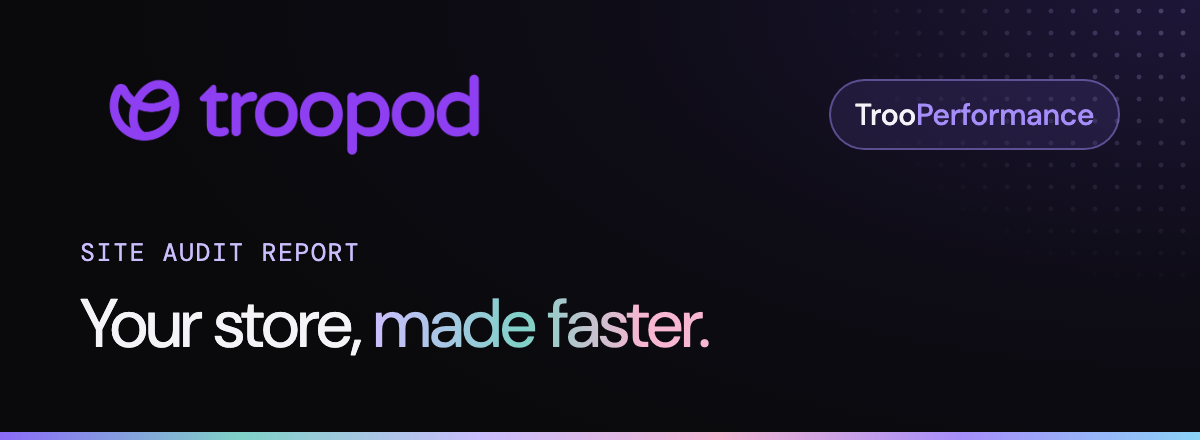
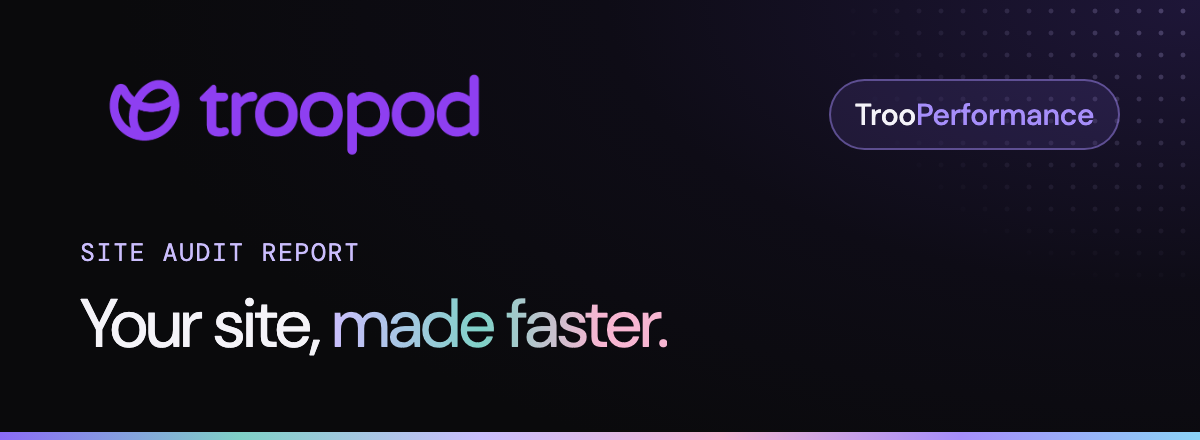
Report email: short CTA-led opening, competitors in every email (auto-picked + phone-tested at send when the visitor skipped it), 'site' not 'store'

Changed region(s): [[0.185, 0.6795, 0.5858, 0.7977]]

diff --git a/assets/js/report-doc.js b/assets/js/report-doc.js
@@ -32,6 +32,18 @@
     }).join("");
   }
 
+  // email opening: who they are, what they checked, what's in it for them, one button
+  function intro(d, site, sc, up) {
+    var hi = d.name ? "Hi " + esc(d.name) + "," : "Hi there,";
+    var l1 = hi + " you just checked <b style=\"color:" + C.text + ";font-weight:500\">" + site + "</b> on TrooPerformance. Here’s your full report.";
+    var l2 = sc.perf != null && up && up.target > sc.perf
+      ? "Your site scores <b style=\"color:" + band(sc.perf) + ";font-weight:500\">" + sc.perf + "/100</b> on a phone. Getting it to <b style=\"color:" + C.lilac + ";font-weight:500\">" + up.target + "</b> could mean about <b style=\"color:" + C.lilac + ";font-weight:500\">+" + up.conv + "% more conversions</b> from the same traffic."
+      : sc.perf != null ? "Your site scores <b style=\"color:" + band(sc.perf) + ";font-weight:500\">" + sc.perf + "/100</b> on a phone. The fixes below keep it ahead of your competitors." : "Below are the fixes that matter most, ranked by what they cost you.";
+    var l3 = "Want it done for you? Book a quick call and see exactly how.";
+    return '<div style="margin-top:14px;font-family:' + F + ';font-size:15.5px;line-height:24px;color:' + C.text2 + '">' + l1 + "<br>" + l2 + "<br>" + l3 + "</div>" +
+      '<table role="presentation" cellpadding="0" cellspacing="0" style="margin-top:16px"><tr><td style="border-radius:10px;background:' + C.purple + '"><a href="' + esc(d.demoUrl || "https://calendly.com/nj-troopod/troopod-demo") + '" style="display:inline-block;padding:12px 20px;font-family:' + F + ';font-size:15px;font-weight:500;color:#FFFFFF;text-decoration:none">Book a demo &rarr;</a></td></tr></table>';
+  }
+
   function render(d, opt) {
     opt = opt || {};
     var base = opt.assetBase || "https://purrieie.github.io/trooperformance/", print = opt.mode === "print";
@@ -41,7 +53,7 @@
     // cover
     rows += '<tr><td style="padding:0"><img src="' + base + 'assets/email/holo-header.png" width="600" height="220" alt="TrooPerformance site audit by Troopod" style="display:block;width:100%;max-width:600px;height:auto;border:0"></td></tr>';
     rows += '<tr><td style="padding:30px 32px 6px"><div style="font-family:' + M + ';font-size:12px;color:' + C.muted + '">Report · ' + esc(d.date || "") + (d.platform ? " · " + esc(d.platform) : "") + '</div><div style="margin-top:10px;font-family:' + F + ';font-size:30px;line-height:36px;letter-spacing:-.03em;color:' + C.text + '">Your performance report for <span style="color:#A68EFA">' + site + "</span></div>" +
-      (d.name && !print ? '<div style="margin-top:14px;font-family:' + F + ';font-size:15.5px;line-height:24px;color:' + C.text2 + '">Hi ' + esc(d.name) + ", here’s everything holding " + site + " back, with the fixes ranked by what they cost you.</div>" : '<div style="margin-top:14px;font-family:' + F + ';font-size:15.5px;line-height:24px;color:' + C.text2 + '">Everything holding ' + site + " back, with the fixes ranked by what they cost you.</div>") + "</td></tr>";
+      (!print ? intro(d, site, sc, up) : '<div style="margin-top:14px;font-family:' + F + ';font-size:15.5px;line-height:24px;color:' + C.text2 + '">Everything holding ' + site + " back, with the fixes ranked by what they cost you.</div>") + "</td></tr>";
     rows += '<tr><td style="padding:18px 18px 4px"><table role="presentation" width="100%" cellpadding="0" cellspacing="0"><tr>' +
       scoreTile(sc.perf, "Performance", sc.desk != null ? "desktop " + sc.desk : "phone") + scoreTile(sc.search, "Search", sc.searchN ? sc.searchN + " checks" : "") + scoreTile(sc.ai, "AI answers", sc.aiN ? sc.aiN + " checks" : "") +
       "</tr></table></td></tr>";
@@ -89,7 +101,7 @@
     // search + AI
     if (d.search && d.search.length) {
       var sFail = d.search.filter(function (c) { return c.status !== "pass"; }), sPass = d.search.length - sFail.length;
-      rows += '<tr><td style="' + pb + 'padding:0"></td></tr>' + rule(base) + h2("Search · score " + (sc.search == null ? "–" : sc.search) + "/100", "How Google", "sees your store");
+      rows += '<tr><td style="' + pb + 'padding:0"></td></tr>' + rule(base) + h2("Search · score " + (sc.search == null ? "–" : sc.search) + "/100", "How Google", "sees your site");
       rows += card('<table role="presentation" width="100%" cellpadding="0" cellspacing="0">' + checkRows(sFail) + "</table>" + '<div style="margin-top:10px;font-family:' + M + ';font-size:11.5px;color:' + C.good + '">✓ ' + sPass + " checks passed</div>");
     }
     if (d.ai && d.ai.length) {
@@ -102,7 +114,7 @@
     // competitors
     if (d.comps && d.comps.length > 1) {
       var me = 0; d.comps.forEach(function (c, i) { if (c.you) me = i; });
-      rows += '<tr><td style="' + pb + 'padding:0"></td></tr>' + rule(base) + h2("Phone test · same moment", "You vs", "your competitors");
+      rows += '<tr><td style="' + pb + 'padding:0"></td></tr>' + rule(base) + h2(d.compsAuto ? "Auto-picked rivals · same phone test" : "Phone test · same moment", "You vs", "your competitors");
       rows += card('<div style="font-family:' + F + ';font-size:20px;color:' + C.text + '">You rank <span style="color:#A68EFA">#' + (me + 1) + "</span> of " + d.comps.length + "</div>" +
         '<table role="presentation" width="100%" cellpadding="0" cellspacing="0" style="margin-top:12px"><tr><td style="padding:0 0 8px;font-family:' + M + ';font-size:11px;color:' + C.dim + '">Brand</td><td align="right" style="padding:0 0 8px;font-family:' + M + ';font-size:11px;color:' + C.dim + '">Score</td><td align="right" style="padding:0 0 8px;font-family:' + M + ';font-size:11px;color:' + C.dim + '">Speed Index</td><td align="right" style="padding:0 0 8px;font-family:' + M + ';font-size:11px;color:' + C.dim + '">LCP</td></tr>' +
         d.comps.map(function (c, i) {
@@ -116,7 +128,7 @@
 
     // CTA
     rows += rule(base) + '<tr><td style="padding:30px 24px 8px"><table role="presentation" width="100%" cellpadding="0" cellspacing="0" style="background:#1B1532;border:1px solid #4A3D86;border-radius:18px"><tr><td align="center" style="padding:32px 24px">' +
-      '<div style="font-family:' + F + ';font-size:26px;line-height:32px;letter-spacing:-.02em;color:' + C.text + '">Want your store fixed?</div><div style="margin-top:8px;font-family:' + F + ';font-size:15px;line-height:22px;color:' + C.text2 + '">Get every fix built and tested on your store: speed, SEO and AI answers.</div>' +
+      '<div style="font-family:' + F + ';font-size:26px;line-height:32px;letter-spacing:-.02em;color:' + C.text + '">Want your site fixed?</div><div style="margin-top:8px;font-family:' + F + ';font-size:15px;line-height:22px;color:' + C.text2 + '">Get every fix built and tested on your site: speed, SEO and AI answers.</div>' +
       '<table role="presentation" cellpadding="0" cellspacing="0" style="margin:20px auto 0"><tr><td style="border-radius:10px;background:' + C.purple + '"><a href="' + esc(d.demoUrl || "https://calendly.com/nj-troopod/troopod-demo") + '" style="display:inline-block;padding:13px 22px;font-family:' + F + ';font-size:15px;font-weight:500;color:#FFFFFF;text-decoration:none">Book a demo</a></td>' +
       (d.reportUrl && !print ? '<td width="10"></td><td style="border-radius:10px;border:1px solid #4A3D86"><a href="' + esc(d.reportUrl) + '" style="display:inline-block;padding:12px 18px;font-family:' + F + ';font-size:15px;color:' + C.text + ';text-decoration:none">Open live report</a></td>' : "") +
       "</tr></table></td></tr></table></td></tr>";

diff --git a/assets/js/audit.js b/assets/js/audit.js
@@ -616,7 +616,10 @@
       bots: d ? d.robots.bots.filter(function (b) { return !b.allowed && b.ua !== "Googlebot" && b.ua !== "Bingbot"; }).map(function (b) { return b.ua; }) : [],
       apps: m ? m.third.filter(function (x) { return x.cost >= 1; }).slice(0, 5).map(function (x) { return { name: x.name, ms: x.cost }; }) : [],
       comps: S.cmp && S.cmp.state === "done" ? cmpRows().map(function (r) { return { site: host(r.url), perf: r.psi.perf, si: sec(r.psi.m.si), lcp: sec(r.psi.m.lcp), you: !!r.you }; }) : [],
-      reportUrl: "https://purrieie.github.io/trooperformance/audit.html?url=" + encodeURIComponent(shortUrl(URL0)), demoUrl: CFG.calendly
+      reportUrl: "https://purrieie.github.io/trooperformance/audit.html?url=" + encodeURIComponent(shortUrl(URL0)), demoUrl: CFG.calendly,
+      // for picking competitors at send time, when the visitor didn't run the comparison
+      ctx: d && d.html ? { title: d.html.title || "", desc: d.html.desc || "", h1: d.html.h1 || "", price: d.html.jsonld && d.html.jsonld.product && d.html.jsonld.product.price ? (d.html.jsonld.product.currency || "") + " " + d.html.jsonld.product.price : d.html.price || "", text: String(d.html.agentText || "").slice(0, 900), platform: d.platform || "" } : null,
+      lab: m ? { si: m.m.si, lcp: m.m.lcp } : null
     };
   }
   // PDF: the branded report in its own window, then the browser's Save as PDF

diff --git a/supabase/functions/trooperformance-report/index.ts b/supabase/functions/trooperformance-report/index.ts
@@ -47,6 +47,9 @@ function cleanData(d: any) {
     comps: arr(d.comps, 4).map((c: any) => ({ site: str(c.site, 80), perf: num(c.perf), si: str(c.si, 12), lcp: str(c.lcp, 12), you: !!c.you })).filter((c: any) => hostOk(c.site)),
     reportUrl: /^https:\/\/purrieie\.github\.io\/trooperformance\//.test(String(d.reportUrl || "")) ? str(d.reportUrl, 400) : "",
     demoUrl: "https://calendly.com/nj-troopod/troopod-demo",
+    ctx: d.ctx ? { title: str(d.ctx.title, 160), desc: str(d.ctx.desc, 300), h1: str(d.ctx.h1, 160), price: str(d.ctx.price, 40), text: str(d.ctx.text, 900), platform: str(d.ctx.platform, 30) } : null,
+    lab: d.lab ? { si: Math.max(0, Math.min(120000, Number(d.lab.si) || 0)) || null, lcp: Math.max(0, Math.min(120000, Number(d.lab.lcp) || 0)) || null } : null,
+    compsAuto: false,
   };
 }
 
